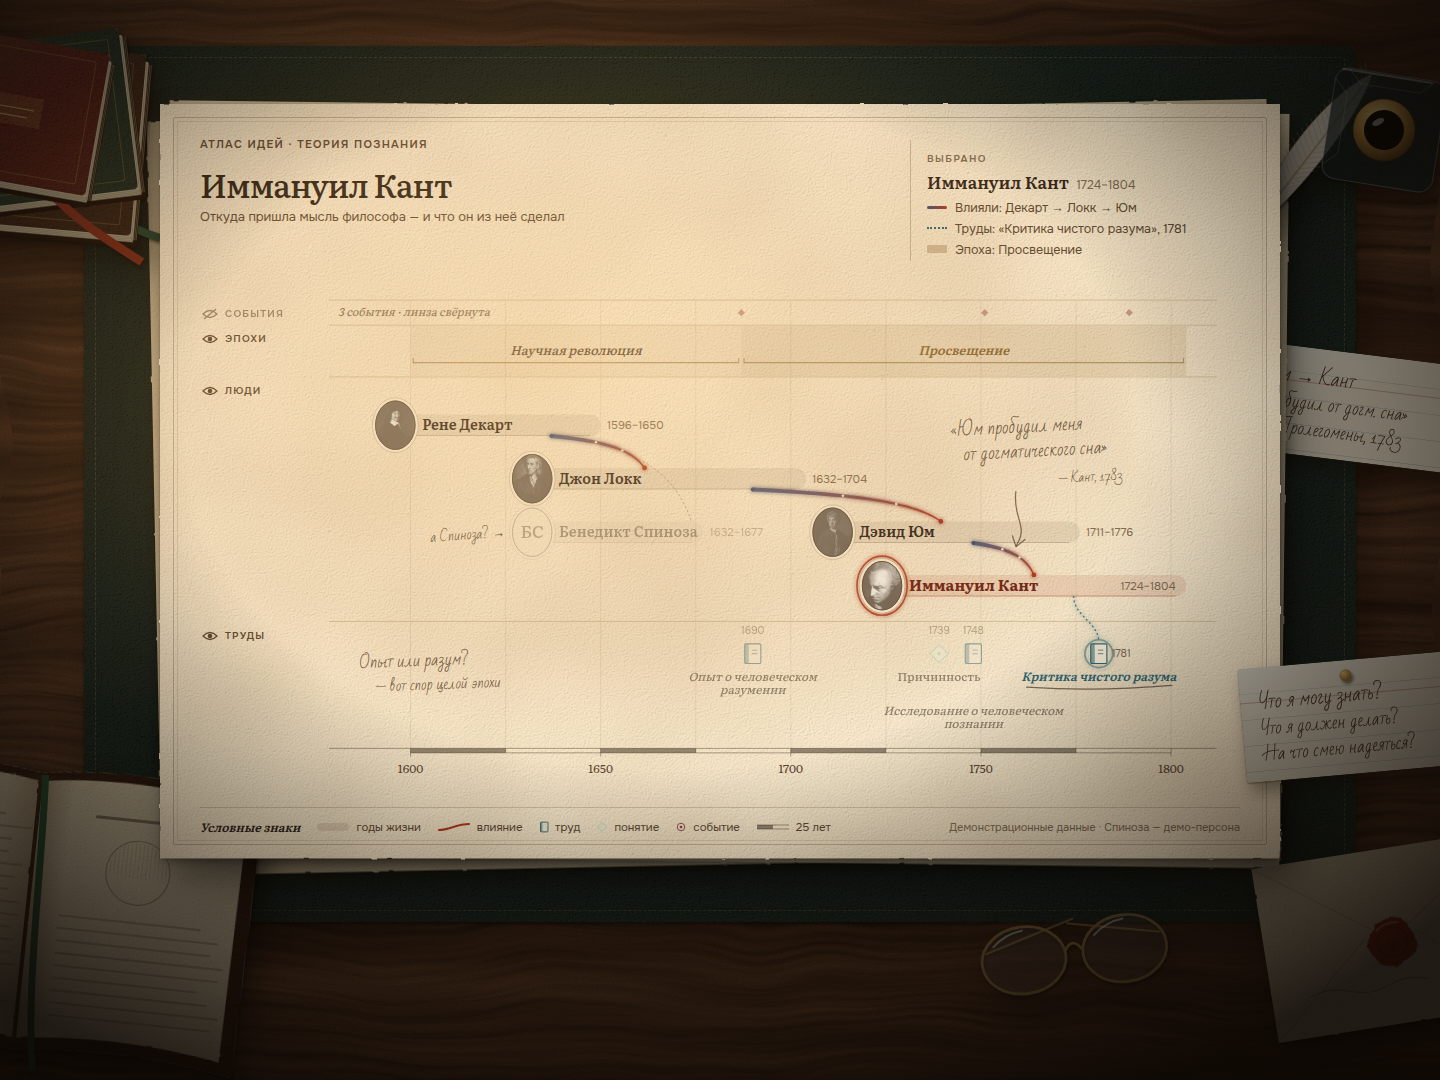
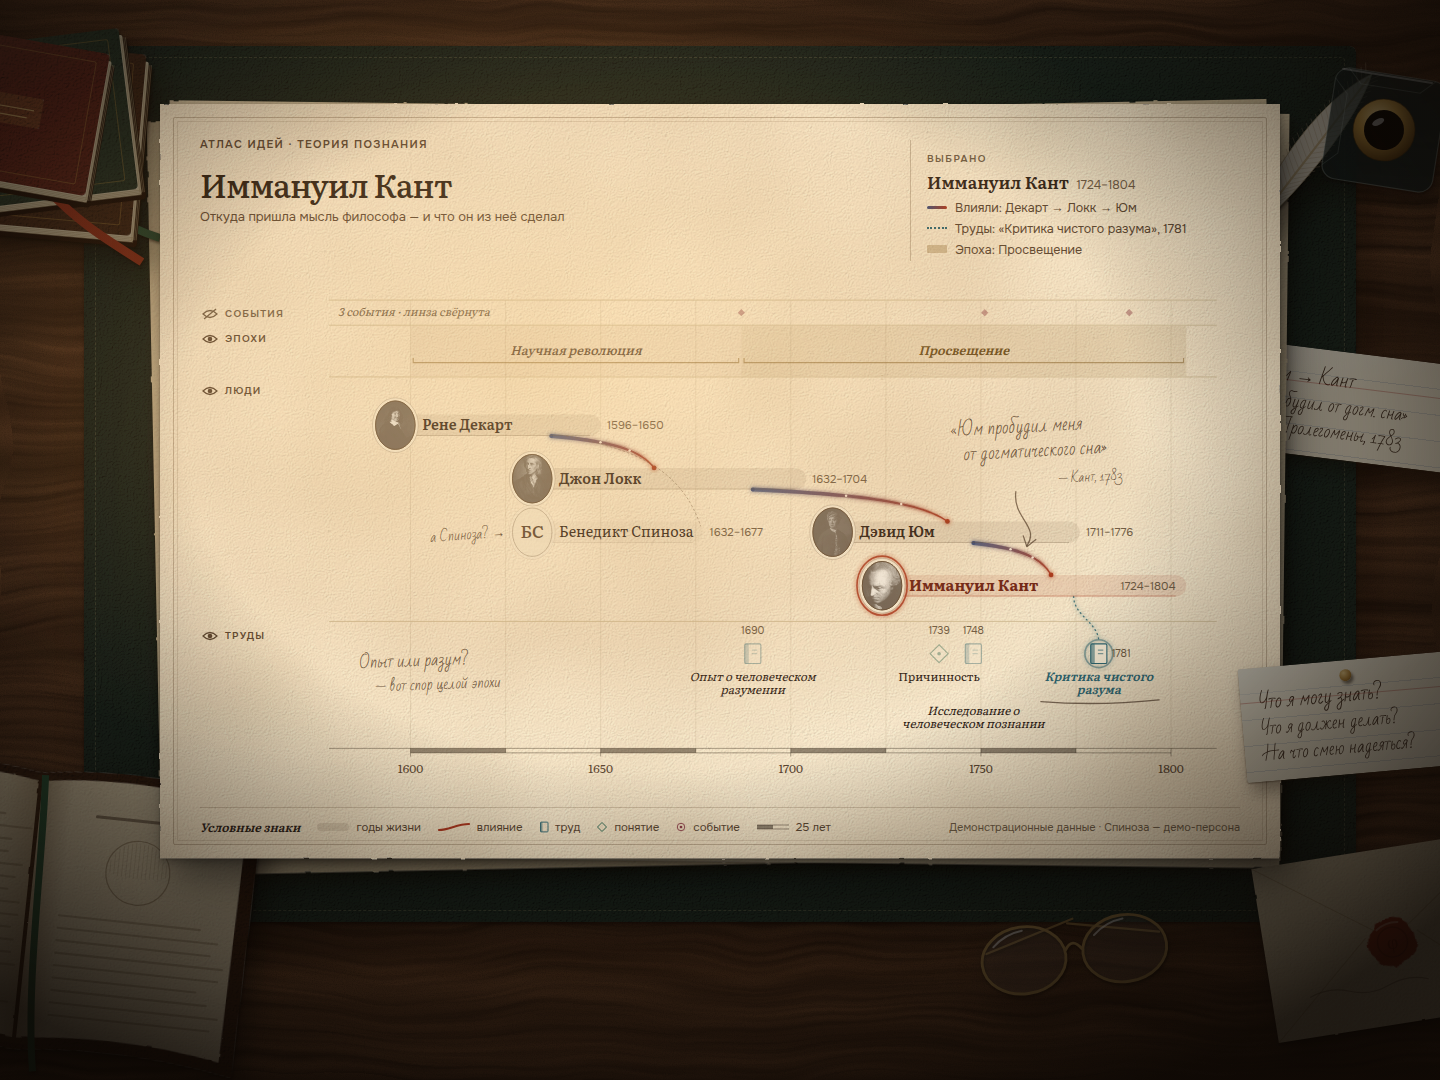
design(cycle-5): палитра листа вне темы, контраст 0/52 ниже 4.5:1, контекст начертанием
Прогон 5 (финальный): вечерняя тема больше не протекает на бумагу; приглушённый
контекст без таяния текста — бледнеют знаки, подписи читаемы (мин. 5.09:1) и
отличаются начертанием; аудит контраста cycle/audit.js. Итог цикла и
ограничения — в design-cycle-log.md; README концепта обновлён.

diff --git a/docs/design/system/previews/graph-f02-lenses/cycle/audit.js b/docs/design/system/previews/graph-f02-lenses/cycle/audit.js
@@ -1,0 +1,32 @@
+// Аудит контраста текста на бумаге (обе темы), с учётом прозрачности приглушённых групп.
+const {chromium}=require('playwright-core');const path=require('path');
+const URL='file://'+path.resolve('/root/ai-history-of-philosophy-platform/docs/design/system/previews/graph-f02-lenses/desk.html');
+(async()=>{
+ const b=await chromium.launch({executablePath:'/root/.cache/puppeteer/chrome/linux-148.0.7778.97/chrome-linux64/chrome',args:['--no-sandbox']});
+ const p=await b.newPage({viewport:{width:1440,height:1080}});await p.goto(URL,{waitUntil:'networkidle'});await p.evaluate(()=>document.fonts.ready);
+ const out={};
+ for(const theme of ['light','dark']){
+  await p.evaluate(t=>{document.getElementById('app').dataset.theme=t;document.getAnimations().forEach(a=>a.finish());},theme);await p.waitForTimeout(200);
+  out[theme]=await p.evaluate(()=>{
+   const PAPER=[0xef,0xe5,0xcc]; // консервативно: бумага в тени края
+   const parse=c=>{const m=c.match(/[\d.]+/g).map(Number);return m;};
+   const lum=([r,g,b])=>{const f=v=>{v/=255;return v<=.03928?v/12.92:Math.pow((v+.055)/1.055,2.4);};return .2126*f(r)+.7152*f(g)+.0722*f(b);};
+   const cr=(a,b)=>{const x=lum(a),y=lum(b);return (Math.max(x,y)+.05)/(Math.min(x,y)+.05);};
+   const op=el=>{let o=1;for(let e=el;e&&e!==document.body;e=e.parentElement||e.parentNode){const v=parseFloat(getComputedStyle(e).opacity);if(!isNaN(v))o*=v;}return o;};
+   const rows=[];
+   const sel=['#svg text','.selnote','.selnote li','.legend>span','.lens-toggle','.edition-note','.scene h1','.subtitle','.eyebrow'];
+   document.querySelectorAll(sel.join(',')).forEach(el=>{
+     const cs=getComputedStyle(el);const isSvg=el instanceof SVGElement;
+     let c=parse(isSvg?cs.fill:cs.color);if(!c||c.length<3)return;
+     const fo=isSvg?parseFloat(cs.fillOpacity||1):(c[3]??1);const o=op(el)*fo;
+     const mix=c.slice(0,3).map((v,i)=>v*o+PAPER[i]*(1-o));
+     const txt=(el.textContent||'').trim().slice(0,24);if(!txt)return;
+     rows.push({t:txt,cls:(el.getAttribute('class')||el.tagName).slice(0,20),cr:+cr(mix,PAPER).toFixed(2),o:+o.toFixed(2)});
+   });
+   rows.sort((a,b)=>a.cr-b.cr);
+   const ideas=getComputedStyle(document.querySelector('.folio')).getPropertyValue('--ideas').trim(),focus=getComputedStyle(document.querySelector('.folio')).getPropertyValue('--graph-focus').trim();
+   return {ideas,focus,worst:rows.slice(0,8),below45:rows.filter(r=>r.cr<4.5).length,total:rows.length};
+  });
+ }
+ console.log(JSON.stringify(out,null,1));await b.close();
+})();

diff --git a/docs/design/system/previews/graph-f02-lenses/desk.css b/docs/design/system/previews/graph-f02-lenses/desk.css
@@ -152,3 +152,21 @@
 .scene .event-text{font-size:13px}
 .collapsed-note{font-size:12.5px}
 .lens-toggle{min-height:22px;padding:2px 6px 2px 2px;transform:translateY(3px)}
+/* Прогон 5: палитра листа не зависит от темы (бумага под лампой одинакова днём и вечером) */
+.scene .folio,.scene[data-theme=dark] .folio{
+  --graph-sheet:#f4ead3;--graph-ink:#2f2318;--graph-ink-secondary:#5a4632;--graph-ink-muted:#6f5c45;
+  --graph-rule:#cfbd98;--graticule:rgba(90,64,36,.10);--people:#3c4d78;--people-tint:#e3dcc8;
+  --ideas:#25624b;--teachings:#644a80;--texts:#2f6670;--context:#8a6a35;--history:#8a3b45;
+  --graph-selected:#a8371f;--graph-focus:#385b8f;--graph-generated:#8d5d1c;--graph-generated-tint:#fbefd6;
+}
+/* Приглушение контекста без «таяния» текста: бледнеют изображения и знаки, подписи — читаемый приглушённый цвет */
+.dim,.dim-soft{opacity:1}
+.dim image,.dim ellipse,.dim rect,.dim path,.dim-soft rect,.dim-soft path,.dim-soft circle{opacity:.4}
+.dim text,.dim-soft text{fill:var(--graph-ink-muted)}
+.dim .monogram{fill-opacity:.7}
+.lens-toggle.off{opacity:1}
+.dim .monogram{fill-opacity:1}
+.scene .era-text.era-active{fill:#6a4f22}
+/* Контекст отличается начертанием, а не таянием: читается, но не спорит с фокусом */
+.dim .person-name{font-weight:400}
+.dim-soft .work-title,.dim-soft .concept-title{font-weight:400}

diff --git a/docs/design/system/previews/graph-f02-lenses/README.md b/docs/design/system/previews/graph-f02-lenses/README.md
@@ -20,6 +20,19 @@
 
 Эпохи и мировые события — **демо** (genesis их не содержит), добавлены, чтобы показать все 4 страты.
 
+## Сцена «стол философа» — `desk.html` (текущий макет)
+
+Рабочий лист на столе философа: орех, кожаный бювар, бумага с рельефом, книги, чернильница, заметки
+от руки; на листе — синхронологическая карта с линзами. Интерактив: тоггл «глаз» у страты
+сворачивает её (остальные забирают высоту); клик/Enter по философу — его влияния, труды, эпоха;
+клик по полю или Esc — снять выбор. Светлая тема — день, тёмная — вечер при лампе.
+
+Файлы: `desk.html` · `desk.css` · `desk-chart.js` (граф от состояния) · `desk.js` (предметы) ·
+`desk-light.png`/`desk-dark.png`. Направление — [graph-desk-scene-direction.md](../../../features/graph-desk-scene-direction.md),
+журнал доводки — [design-cycle-log.md](../../../features/graph-page-qa/design-cycle-log.md).
+Проверки (Playwright + Chromium): `cycle/check.js` (рендер, геометрия), `cycle/ixn.js` (интеракции),
+`cycle/audit.js` (контраст); запуск — `node cycle/<скрипт>.js` из папки с `playwright-core`.
+
 ## v2 — пробный кадр «выбран Кант» (отзыв 2026-11-17)
 
 `trial.html` · `trial.js` (+ `trial-light.png`/`trial-dark.png`) — второй пробный кадр по отзыву:
